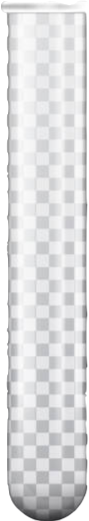
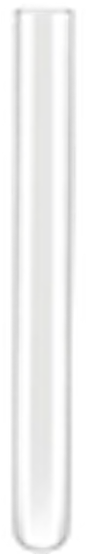
Add tube

diff --git a/View/AmmoView.swift b/View/AmmoView.swift
@@ -53,58 +53,74 @@ struct AmmoView: View {
     @State var colorOpacity = 0.5
     @State var materialOpacity = 0.5
     var body: some View {
+        let totalHeight = Double(Array(1...10).count) * 50.0
+        let centerY = totalHeight / 2.0
         ZStack {
-            Color.black
-                .edgesIgnoringSafeArea(.all)
-            VStack {
-                // TODO: Might remove Material
-                ZStack {
-                    //Image("motionObject")
-                    ForEach(Array(1...10), id: \.self) { index in
-                        let object = MotionObject(center: Point(xCoord: 100, yCoord: Double(index) * 50), name: "motion", velocity: Vector(horizontal: 3.0, vertical: 3.0))
-                        customMotionObjectView(object: object, index: index)
-                    }
-                    Rectangle()
-                        .fill(
-                            Material.thin
-                        )
-                        .frame(width: .infinity, height: .infinity)
-                        .opacity(materialOpacity)
-                    Color(
-                        red: 255/255,
-                        green: 255/255,
-                        blue: 255/255,
-                        opacity: colorOpacity)
-                }
-                .clipShape(RoundedRectangle(cornerRadius: 15))
-                .border(
-                    Color(
-                        red: 255/255,
-                        green: 255/255,
-                        blue: 255/255,
-                        opacity: 0.1
-                    )
-                )
-                .cornerRadius(15)
-                .frame(height: 300)
-                Spacer()
-                VStack(spacing: 0) {
-                    Text("Material Opacity:")
-                    Slider(value: $materialOpacity)
-                }
-                .padding()
-
-                VStack(spacing: 0) {
-                    Text("Color Opacity:")
-                    Slider(value: $colorOpacity)
-                }
-                .padding()
-                Spacer()
+            ForEach(Array(1...10), id: \.self) { index in
+                let object = MotionObject(center: Point(xCoord: 100, yCoord: Double(index) * 50), name: "motion", velocity: Vector(horizontal: 3.0, vertical: 3.0))
+                customMotionObjectView(object: object, index: index)
             }
-
+            Image("glass").position(x: 90, y: centerY)
+                .opacity(0.55)
         }
+
     }
 }
+
+
+/*
+ ZStack {
+     Color.black
+         .edgesIgnoringSafeArea(.all)
+     VStack {
+         // TODO: Might remove Material
+         ZStack {
+             Image("glass")
+             ForEach(Array(1...10), id: \.self) { index in
+                 let object = MotionObject(center: Point(xCoord: 100, yCoord: Double(index) * 50), name: "motion", velocity: Vector(horizontal: 3.0, vertical: 3.0))
+                 customMotionObjectView(object: object, index: index)
+             }
+             Rectangle()
+                 .fill(
+                     Material.thin
+                 )
+                 .frame(width: .infinity, height: .infinity)
+                 .opacity(materialOpacity)
+             Color(
+                 red: 255/255,
+                 green: 255/255,
+                 blue: 255/255,
+                 opacity: colorOpacity)
+         }
+         .clipShape(RoundedRectangle(cornerRadius: 15))
+         .border(
+             Color(
+                 red: 255/255,
+                 green: 255/255,
+                 blue: 255/255,
+                 opacity: 0.1
+             )
+         )
+         .cornerRadius(15)
+         .frame(height: 300)
+         Spacer()
+         VStack(spacing: 0) {
+             Text("Material Opacity:")
+             Slider(value: $materialOpacity)
+         }
+         .padding()
+
+         VStack(spacing: 0) {
+             Text("Color Opacity:")
+             Slider(value: $colorOpacity)
+         }
+         .padding()
+         Spacer()
+     }
+
+ }
+
+ */
 
 extension AmmoView {
     private func customMotionObjectView(object: GameObject, index: Int) -> some View {

diff --git a/View/MainView/CanvasView.swift b/View/MainView/CanvasView.swift
@@ -11,17 +11,41 @@ import SwiftUI
 // TODO: Remove width and height if necessary
 struct CanvasView: View {
     @StateObject var canvasViewModel = CanvasViewModel()
+    let centerY = 250.0 / 2.0
 
     var body: some View {
         ZStack(alignment: .top) {
-            backgroundDisplay
+            ZStack {
+                backgroundDisplay
+                Image("glass")
+                .opacity(0.55)
+                //.frame(width: 20, alignment: .trailing)
+                    .background(Color.red)
+                    .position(x: 50, y: 650)
+            }
             motionObjectDisplay
             captureObjectDisplay
             if canvasViewModel.isStartState {
                 ShooterView(canvasViewModel)
             }
-            gameObjectsDisplay
+            /*
+            ZStack {
+                ammoDisplay
+                Image("glass").position(x: 42, y: 650)
+                    .opacity(0.55)
+
+            }
+            */
+            /*
+            GeometryReader { geometry in
+                Image("glass")
+                    .frame(width: 20, height: geometry.size.height / 30)
+                    .position(x: 42, y: 650)
+                    .opacity(0.55)
+            }
+            */
             ammoDisplay
+            gameObjectsDisplay
             if !canvasViewModel.isStartState {
                 PaletteView()
             }
@@ -169,9 +193,16 @@ extension CanvasView {
 
 extension CanvasView {
     private var motionObjectDisplay: some View {
-        ForEach(canvasViewModel.motionObjects.indices, id: \.self) { index in
-            let object = canvasViewModel.motionObjects[index]
-            customMotionObjectView(object: object, index: index)
+        ZStack {
+            //Image("glass")
+                //.resizable()
+                //.frame(width:80)
+                //.background(Color.red)
+                //.padding(-500)
+            ForEach(canvasViewModel.motionObjects.indices, id: \.self) { index in
+                let object = canvasViewModel.motionObjects[index]
+                customMotionObjectView(object: object, index: index)
+            }
         }
     }
 }

diff --git a/GameEngine/GameEngineBody.swift b/GameEngine/GameEngineBody.swift
@@ -138,6 +138,7 @@ class GameEngineBody: CollisionGameEngine, GravityGameEngine {
         gameObject.isActive = true
         if gameObject.hasBlasted {
             gameObject.isDisappear = true
+            gameObject.handleOverlapCount = 10
             return
         }
     }
@@ -216,7 +217,7 @@ class GameEngineBody: CollisionGameEngine, GravityGameEngine {
             let gameObject = gameObjects[index]
             if isInBlastRadius(blastObject: object, gameObject: gameObject) {
                 if gameObject.isBlast {
-                    gameObjects[index].hasBlasted = true
+                    gameObject.hasBlasted = true
                     blastObjects.append(contentsOf: getBlastObjects(from: &gameObjects[index]))
                 }
                 blastObjects.append(gameObject)
@@ -228,15 +229,6 @@ class GameEngineBody: CollisionGameEngine, GravityGameEngine {
     func getBlastObjects(from object: inout GameObject) -> [GameObject] {
         guard !object.hasBlasted else {
             return []
-        }
-        guard var motionObject = object as? MotionObject else {
-            return []
-        }
-        if !motionObject.hasBlasted {
-            print("not blasted")
-            motionObject.velocity = motionObject.velocity.add(vector: Vector(horizontal: 0.0, vertical: -5))
-        } else {
-            print("blasted")
         }
         object.hasBlasted = true
         var blastObjects: [GameObject] = []

diff --git a/View Model/CanvasViewModel.swift b/View Model/CanvasViewModel.swift
@@ -20,7 +20,6 @@ class CanvasViewModel: ObservableObject, GameEngineDelegate {
     @Published var remainingAmmo: [MotionObject] = []
     @Published var captureObjects: [CaptureObject]
     @Published var selectedObject: String?
-    @Published var remainingAmmoCount: Int = 10
 
     @Published var isDeleteState = false
     @Published var isResizeState = false
@@ -296,7 +295,7 @@ extension CanvasViewModel {
     }
 
     func shootBall() {
-        guard !isShooting, !isAnimating, remainingAmmoCount > 0 else {
+        guard !isShooting, !isAnimating, remainingAmmo.count > 0 else {
             return
         }
         isShooting = true

diff --git a/PhysicsEngine/PhysicsBody.swift b/PhysicsEngine/PhysicsBody.swift
@@ -71,7 +71,9 @@ class PhysicsBody: PhysicsElasticCollision, PhysicsRigidBody {
         let resultantNormVel = resultantNormVec(normVec: normVel, src: collider, dst: collidee)
         let resultantTanVel = resultantTanVector(tanVec: tanVel, src: collider)
         if collidee.object.isBlast {
+            print("is blast")
             collider.velocity = resultantNormVel.add(vector: resultantTanVel)
+            collider.velocity = collider.velocity.add(vector: Vector(horizontal: 0.0, vertical: -5))
             // TODO: setting hasBlasted to true is possibly redundant
             collidee.object.hasBlasted = true
         } else {
